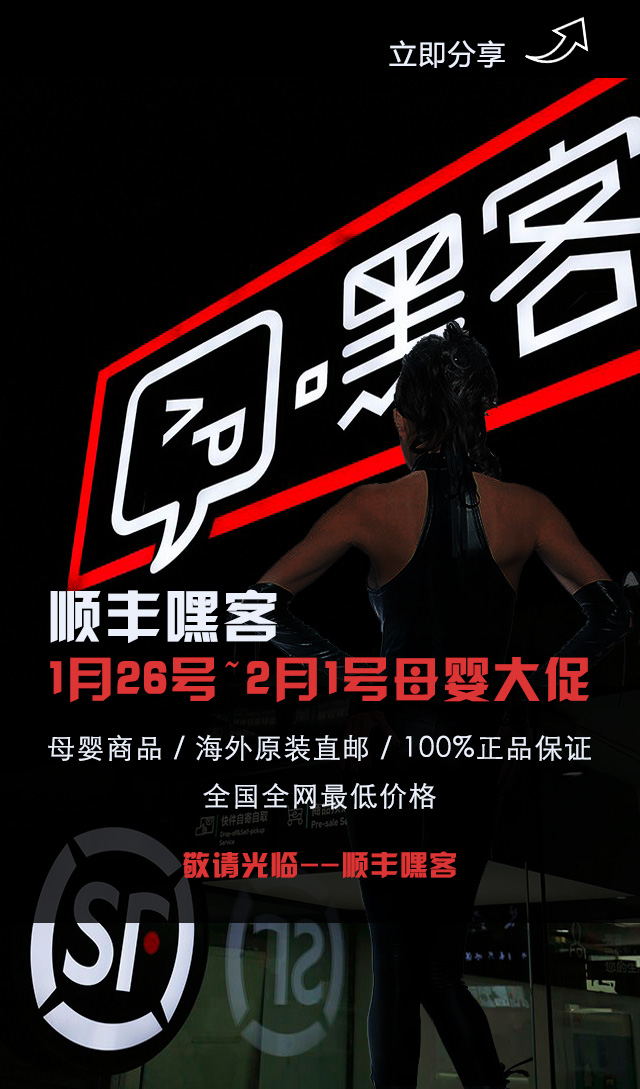
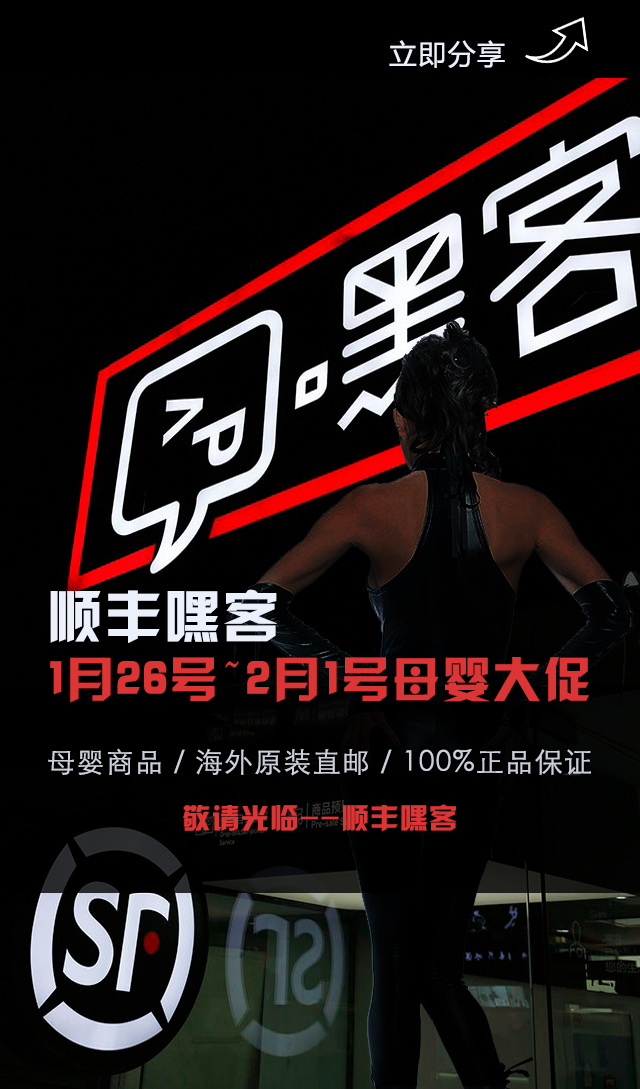
最后一页文字效果

Changed region(s): [[0.0312, 0.6556, 0.9375, 0.8742], [0.7188, 0.8118, 1.0, 0.8742]]

diff --git a/css/style.css b/css/style.css
@@ -262,7 +262,10 @@ img{
 	-webkit-animation:section3-superman 0.5s linear 1s forwards;
 }
 @-webkit-keyframes section3-superman{
-	100%{
+	70%,90%{
+		opacity:0.5;
+	}
+	60%,80%,100%{
 		opacity:1;
 	}
 }
@@ -369,5 +372,39 @@ img{
 @-webkit-keyframes section5-eye{
 	100%{
 		opacity: 1;
+	}
+}
+
+.section6-text{
+	width:37.03%;
+	left: 49.06%;
+	top: -100px;
+}
+.active .section6-text{
+	-webkit-animation:section6-text 1s linear 1s forwards;
+}
+@-webkit-keyframes section6-text{
+	50%{
+		top: 54.27%;
+		-webkit-transform:rotate(0deg);
+	}
+	60%{
+		-webkit-transform:rotate(20deg);
+	}
+	70%{
+		-webkit-transform:rotate(0deg);
+	}
+	80%{
+		-webkit-transform:rotate(10deg);
+	}
+	90%{
+		-webkit-transform:rotate(0deg);
+	}
+	95%{
+		-webkit-transform:rotate(5deg);
+	}
+	100%{
+		-webkit-transform:rotate(0deg);
+		top: 54.27%;
 	}
 }

diff --git a/index.html b/index.html
@@ -49,7 +49,7 @@
 			
 		</section>
 		<section class="section section6">
-			
+			<img src="img/section6-text.png" class="section6-text" alt="">
 		</section>
 	</div>
 	<audio id="audio" loop>
